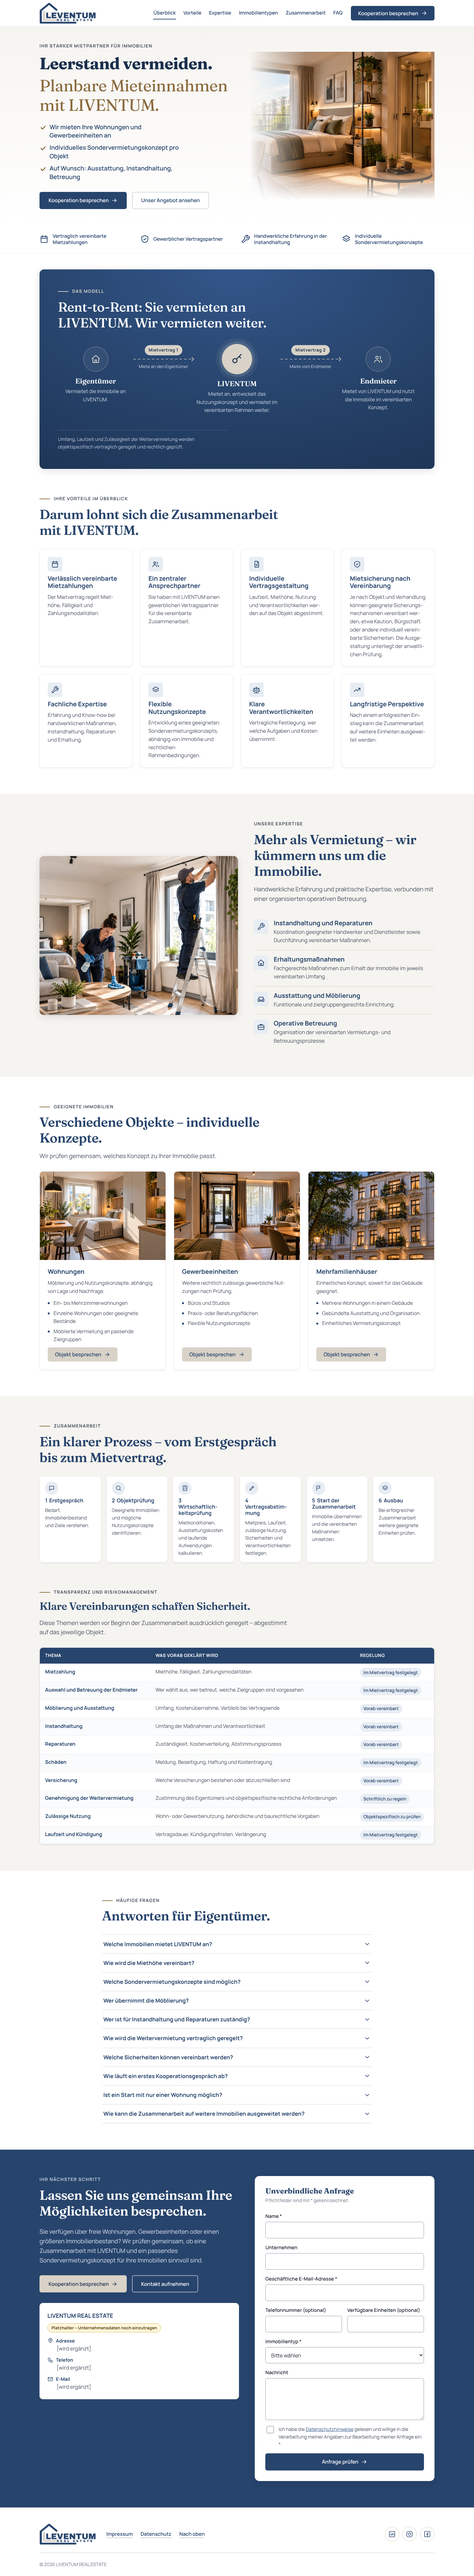
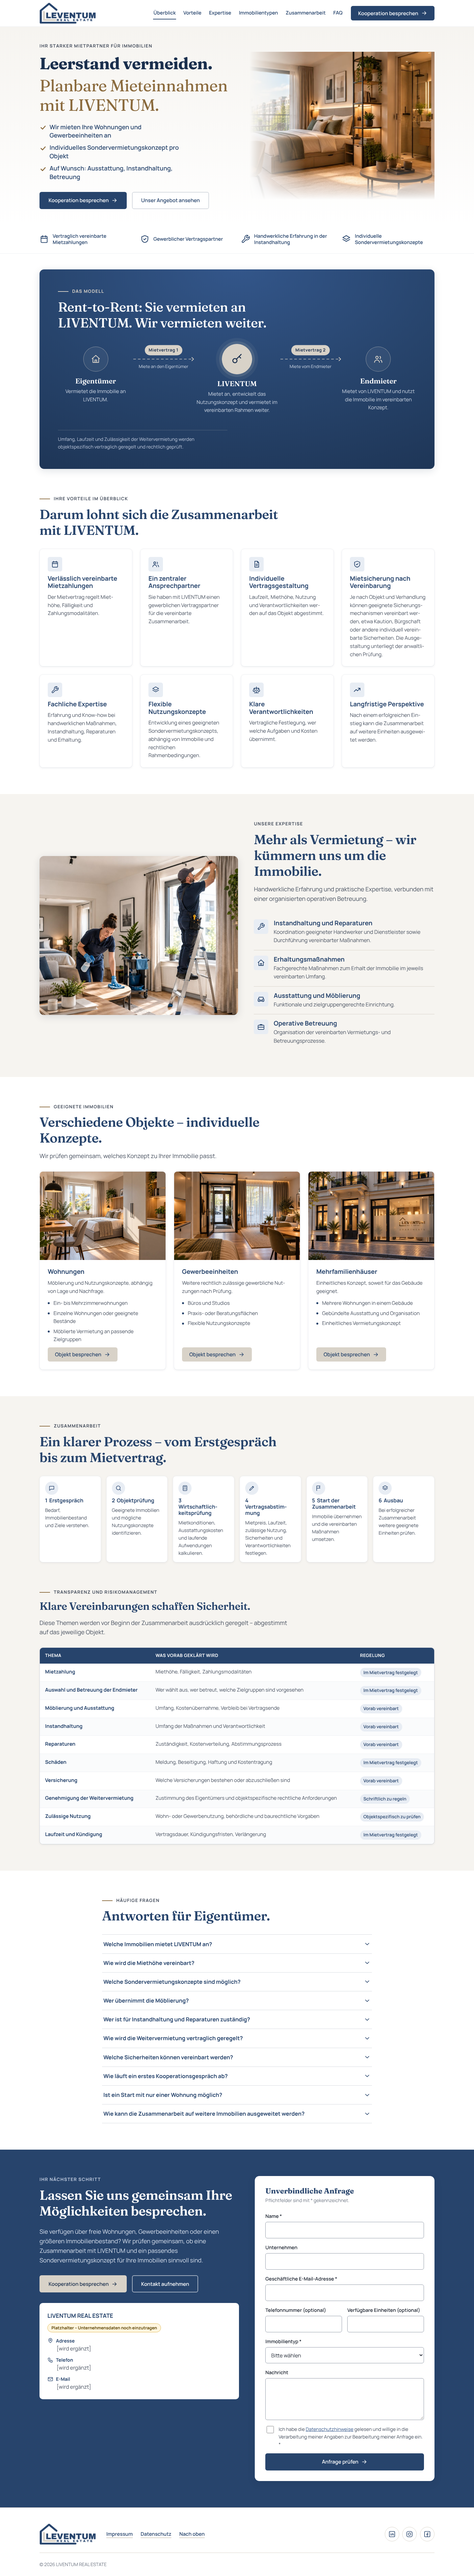
Neues Bild für Mehrfamilienhäuser
Claude-Session: https://claude.ai/code/session_01KEcscF8ABiEHPf9rzLQ9PG

Changed region(s): [[0.625, 0.4373, 0.9375, 0.4997]]

diff --git a/index.html b/index.html
@@ -278,7 +278,7 @@
             </div>
           </li>
           <li class="type-card">
-            <img src="assets/img/objekt-mehrfamilienhaus.jpg" width="1200" height="840" loading="lazy" alt="Gepflegtes Mehrfamilienhaus mit Stuckfassade und Balkonen in der Abenddämmerung">
+            <img src="assets/img/objekt-mehrfamilienhaus.jpg" width="1200" height="800" loading="lazy" alt="Gepflegtes Mehrfamilienhaus mit heller Fassade, Balkonen und beleuchtetem Erdgeschoss mit LIVENTUM-Beschriftung am Fenster">
             <div class="type-body">
               <h3>Mehrfamilienhäuser</h3>
               <p>Einheitliches Konzept, soweit für das Gebäude geeignet.</p>
